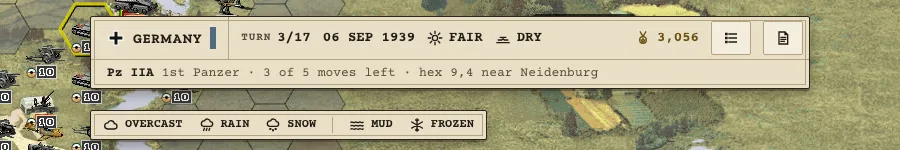
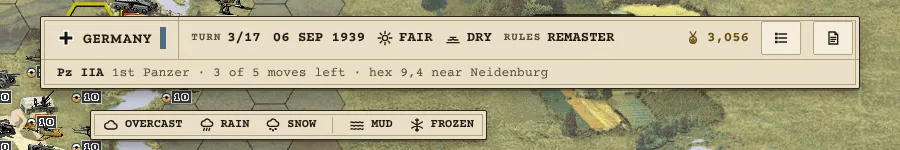
Show the rules a game plays in the StatusBar card (#317)
The card's top row gets a Rules cell after the ground: Remaster or
Classic, the rules the running game plays, which the save keeps. The bar
stays 720px wide unless its cells need more, never wider than the screen.
The render is refreshed (rendered here with Chromium on Linux, so the
faces may differ slightly from the earlier render).

Part of #346. verify: identical expected (docs only).

diff --git a/docs/ui/components/StatusBar/preview.html b/docs/ui/components/StatusBar/preview.html
@@ -1,4 +1,4 @@
-<!-- @dsCard group="Screens · In game" height=150 width=900 subtitle="Status bar (#statusbar): side, turn, date, weather, ground, prestige, turn report and status message" status="Ready" -->
+<!-- @dsCard group="Screens · In game" height=150 width=900 subtitle="Status bar (#statusbar): side, turn, date, weather, ground, rules, prestige, turn report and status message" status="Ready" -->
 <link rel="stylesheet" href="https://fonts.googleapis.com/css2?family=Zilla+Slab:wght@500;700&family=Libre+Franklin:wght@400;600;700&family=Courier+Prime:wght@400;700&display=swap">
 
 <div class="pm pm-stage" style="width:900px;height:150px">
@@ -8,7 +8,7 @@
     
   </div>
   
-  <header id="statusbar" class="pm-panel pm-status" role="status" style="top:16px">
+  <header id="statusbar" class="pm-panel pm-status" role="status" style="top:16px;width:820px">
     <div class="row">
       <span class="pm-side"><svg class="mark sm" aria-hidden="true"><use href="#pm-flag-de"/></svg>Germany<span class="chip" aria-hidden="true"></span></span>
       <span class="pm-sep"></span>
@@ -16,6 +16,7 @@
       <span class="cell">06 Sep 1939</span>
       <span class="cell" title="Weather"><svg class="i sm" aria-hidden="true"><use href="#pm-fair"/></svg>Fair</span>
       <span class="cell" title="Ground"><svg class="i sm" aria-hidden="true"><use href="#pm-dry"/></svg>Dry</span>
+      <span class="cell" title="The rules this game plays"><span class="pm-label">Rules</span>Remaster</span>
       <span class="grow"></span>
       <span class="cell pm-prestige"><svg class="i sm" aria-hidden="true"><use href="#pm-prestige"/></svg>3,056</span>
       <button id="statusBarButton" class="pm-btn" aria-label="Unit list" title="Unit list"><svg class="i sm" aria-hidden="true"><use href="#pm-unit-list"/></svg></button><button id="combatLogButton" class="pm-btn" aria-label="Turn report"><svg class="i sm" aria-hidden="true"><use href="#pm-document"/></svg></button>

diff --git a/docs/ui/README.md b/docs/ui/README.md
@@ -67,7 +67,7 @@ Status says whether a card can be built as it is (PLAN.md): Ready, or what has t
 | [MapLayers](components/MapLayers/README.md)<br>[render](renders/MapLayers.webp) | The same hexes in the ground layer and the air layer: which unit is on top, which gets the marker on a shared hex, which is the target | Ready |
 | [MapOverlays](components/MapOverlays/README.md)<br>[render](renders/MapOverlays.webp) | The map layer: selection, move area, enemy zones, move path, attack target, support fire, fog, entrenchment, objectives and towns | Ready |
 | [MovePath](components/MovePath/README.md)<br>[render](renders/MovePath.webp) | Move path preview (#32): the route to the hovered hex, moves and fuel left, and where a move stops, captures, turns blind or ends firing | Ready |
-| [StatusBar](components/StatusBar/README.md)<br>[render](renders/StatusBar.webp) | Status bar (#statusbar): side, turn, date, weather, ground, prestige, turn report and status message | Ready |
+| [StatusBar](components/StatusBar/README.md)<br>[render](renders/StatusBar.webp) | Status bar (#statusbar): side, turn, date, weather, ground, rules, prestige, turn report and status message | Ready |
 | [StrategicMap](components/StrategicMap/README.md)<br>[render](renders/StrategicMap.webp) | Strategic map at 1920×1080: the whole Ciechanow map, units as side chips, objectives as large plaques | Ready |
 | [SupplyRules](components/SupplyRules/README.md)<br>[render](renders/SupplyRules.webp) | Where to resupply and reinforce: the divisors the engine applies, with real numbers for one tank | Ready |
 | [Tooltips](components/Tooltips/README.md)<br>[render](renders/Tooltips.webp) | Hex tooltip with what the terrain does, unit pins (low fuel, no ammo), button tooltip and the AI status indicator | Ready |

diff --git a/docs/ui/components/StatusBar/README.md b/docs/ui/components/StatusBar/README.md
@@ -1,5 +1,6 @@
-The status bar is the one always-visible strip of game state. The top row has the side (nation mark, name and a side-color chip), the turn as `3/17`, the date, the weather, the ground, the prestige, a button for the unit list and a button for the turn report. The second row is the status message.
+The status bar is the one always-visible strip of game state. The top row has the side (nation mark, name and a side-color chip), the turn as `3/17`, the date, the weather, the ground, the rules the game plays (Remaster or Classic, #317: the save keeps them, so they never change in a running game), the prestige, a button for the unit list and a button for the turn report. The second row is the status message.
 
 - Values are typed in Courier Prime and uppercase. The status message is Courier Prime 13/18 in `ink-muted`, with the unit name in `ink`.
 - Weather (fair, overcast, rain, snow) and ground (dry, mud, frozen) each show an icon plus a word. The other states are shown below the bar.
+- The bar is 720px wide, wider when its cells need it (the rules, a long country name), and never wider than the screen.
 - The status message replaces `#statusmsg` and `#locmsg`. The weather icon replaces `#weathermsg`. The report button replaces `#combatLogButton`, and the unit list button replaces `#statusBarButton` (it opens the list without the equipment window, as today).
